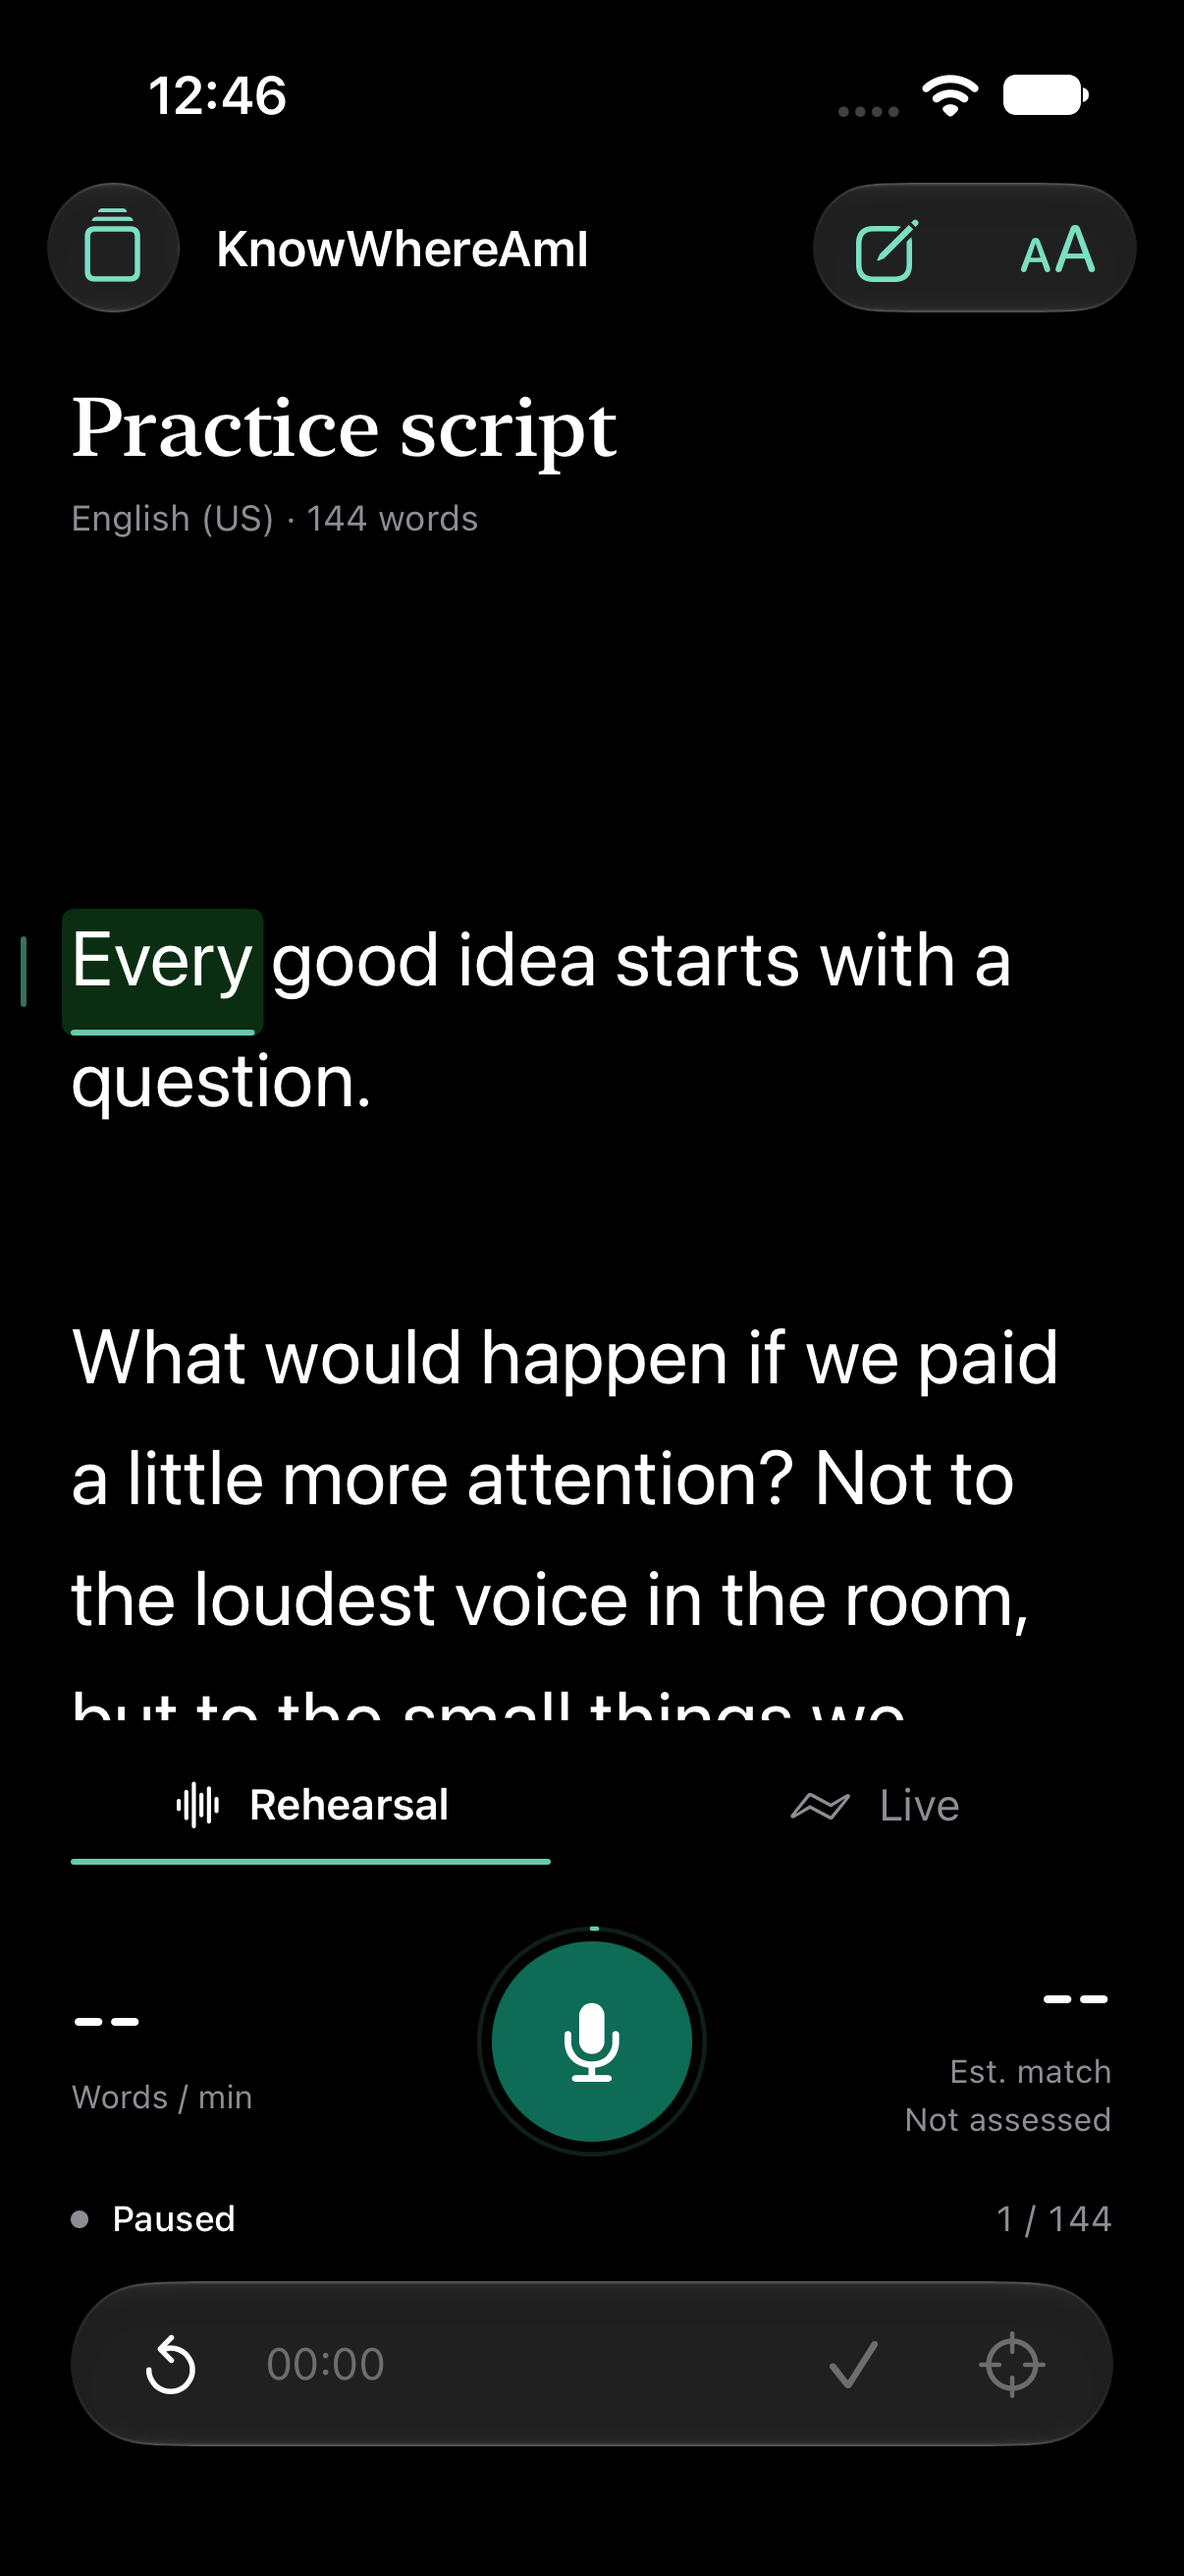
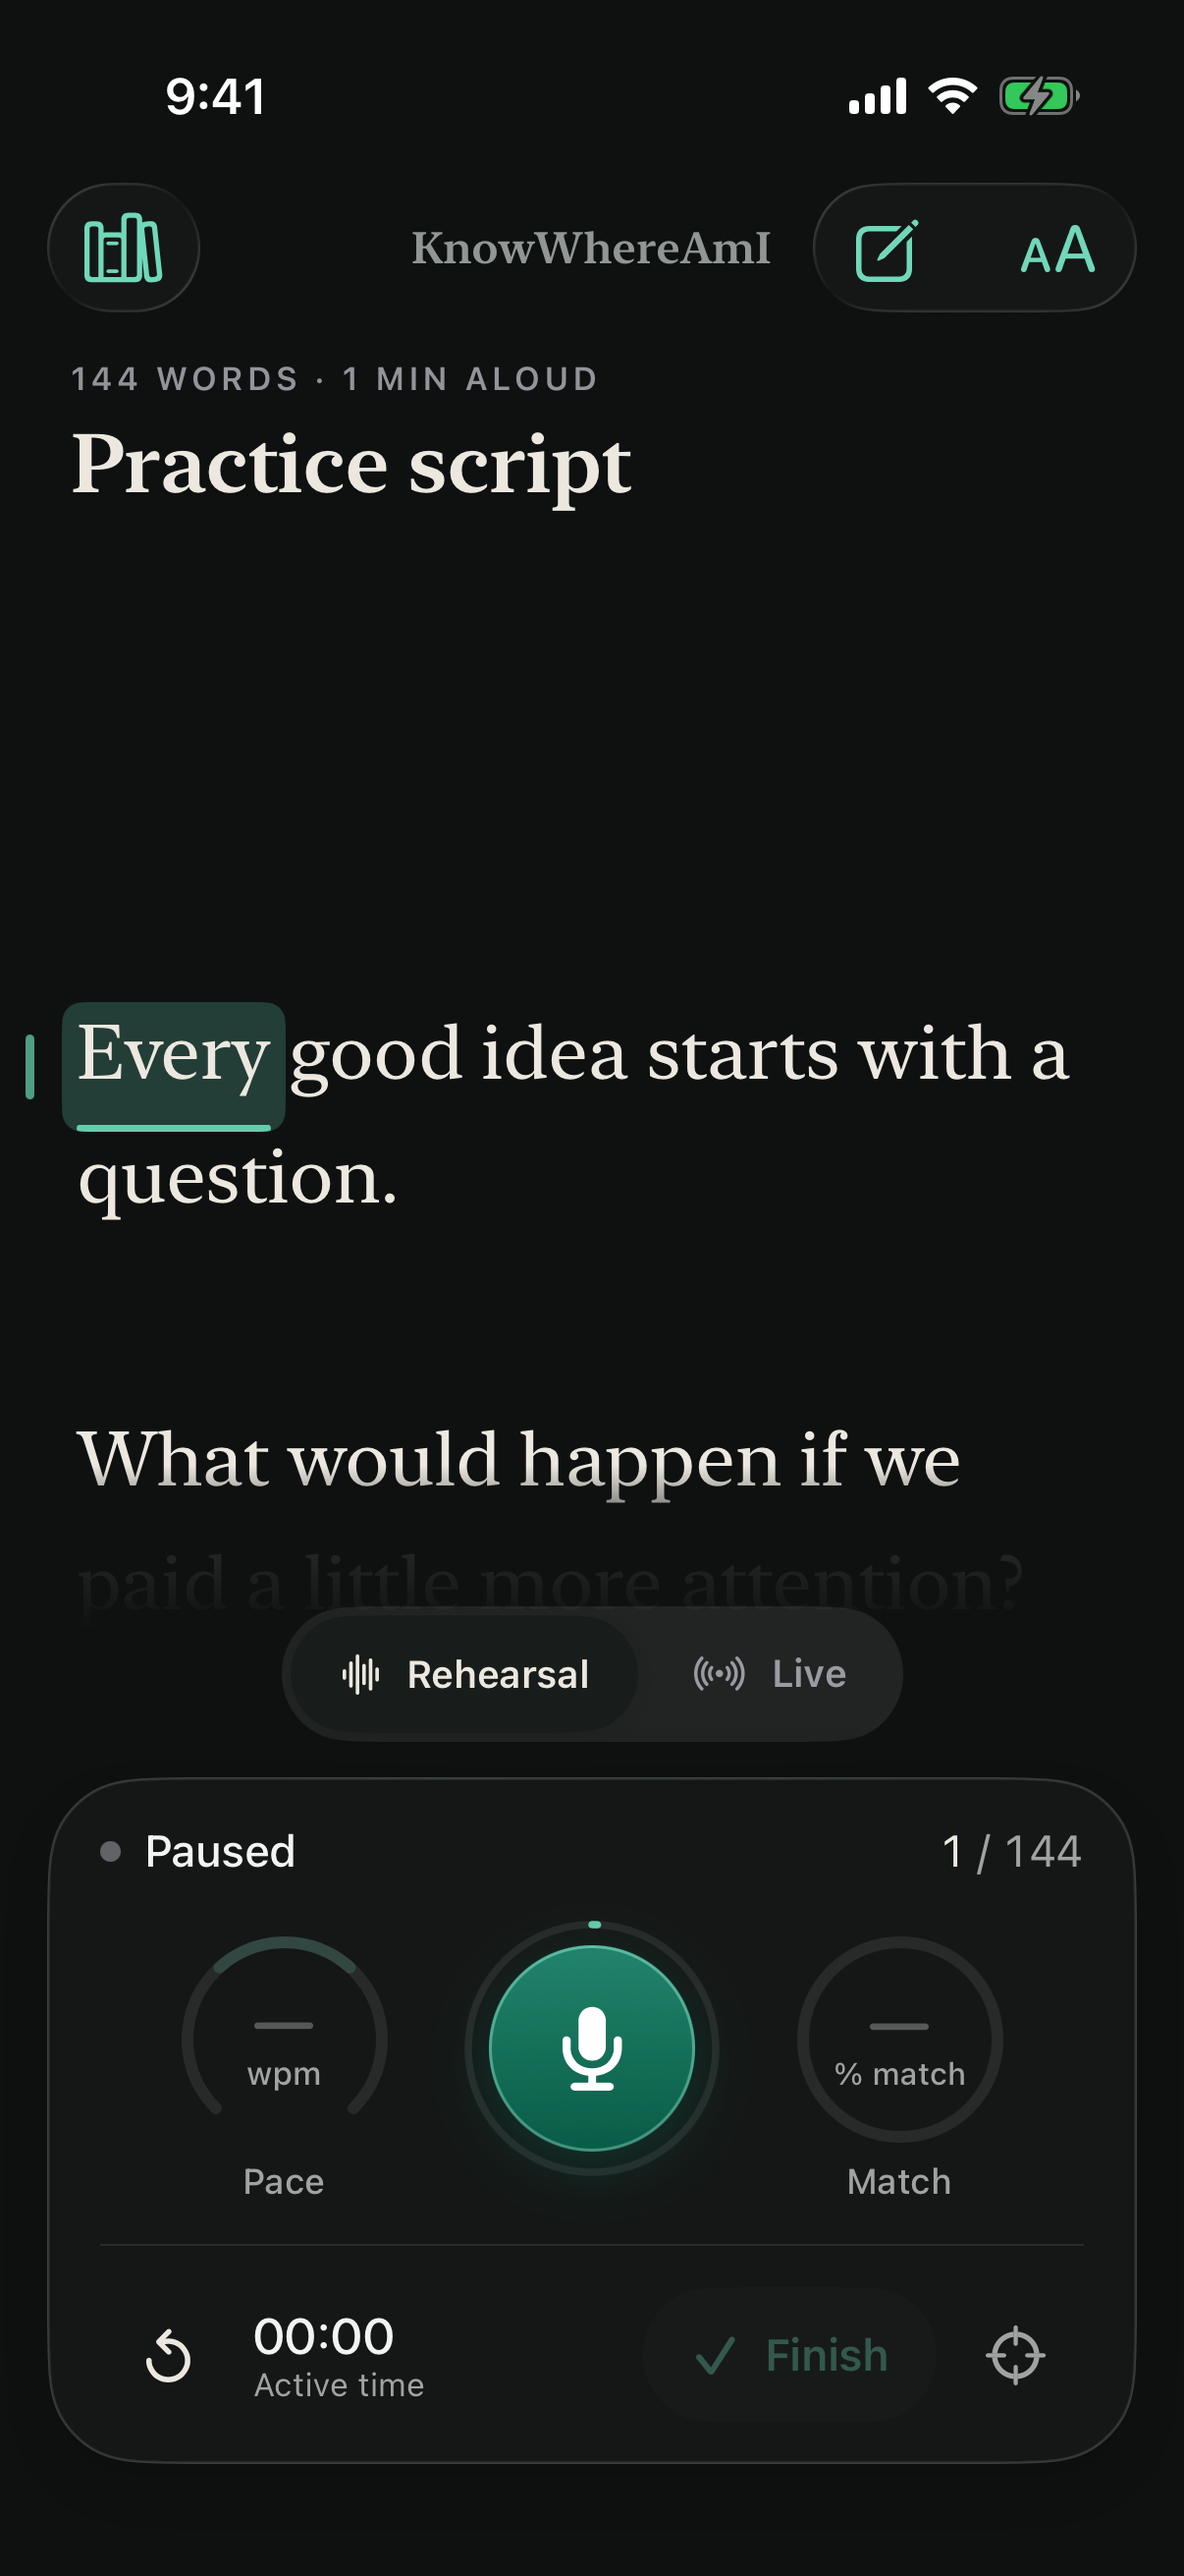
Refresh README previews with the redesigned interface
Screens come from the verified UI Screenshots workflow run.

Claude-Session: https://claude.ai/code/session_01LPjznvxDsUVjY6eevtw6FT

diff --git a/README.md b/README.md
@@ -6,12 +6,14 @@ Xcode 27. No third-party packages, account, analytics, or cloud transcription.
 
 ## Screenshots
 
-| Reader | Manuscript Library | Rehearsal Report |
-| --- | --- | --- |
-| <img src="Preview.png" width="240" alt="English script reader with a focused current word"> | <img src="Preview-Library.png" width="240" alt="Saved manuscript gallery"> | <img src="Preview-Report.png" width="240" alt="Visual rehearsal report with match ring and manuscript coverage map"> |
+| Reader | Rehearsing | Live | Rehearsal Report |
+| --- | --- | --- | --- |
+| <img src="Preview.png" width="200" alt="Manuscript in New York serif with the current word in a rounded highlight"> | <img src="Preview-Rehearsal.png" width="200" alt="Console with pace subdial, breathing microphone, and match ring"> | <img src="Preview-Live.png" width="200" alt="Live rescue dock with paragraph rail and locked reading position"> | <img src="Preview-Report.png" width="200" alt="Report with match ring, written verdict, and metric tiles"> |
 
-These are actual simulator screens. The report uses a controlled test transcript,
-not a live microphone or an acoustic benchmark.
+These are actual simulator screens captured by the `UI Screenshots` workflow
+(iOS 26.5 simulator, no microphone). Rehearsing and the report use a controlled
+test transcript, not a live microphone or an acoustic benchmark. The design
+language is described in `docs/EXPERIENCE-UPGRADE.md`.
 
 ## Run On iPhone
 
@@ -88,9 +90,10 @@ An unsigned device build checks compilation only; a simulator does not establish
 microphone/model accuracy, latency, thermal performance, or Bluetooth behavior.
 
 See `docs/VALIDATION.md` for the measured validation and remaining device checks.
-`Preview.png`, `Preview-Live.png`, and `Preview-Library.png` are actual simulator
-screens. `Preview-Rehearsal.png` and the report previews use a controlled test
-transcript, not a live microphone or an acoustic benchmark.
+The `UI Screenshots` GitHub workflow builds against the runner's Xcode 26.6 / iOS
+26.5 simulator with a no-capture speech stub, runs the app and UI suites in light
+appearance and the screenshot suites in dark, and uploads every screen as the
+`screenshots` artifact. `Preview*.png` come from that artifact.
 
 ## Current Limits
 
